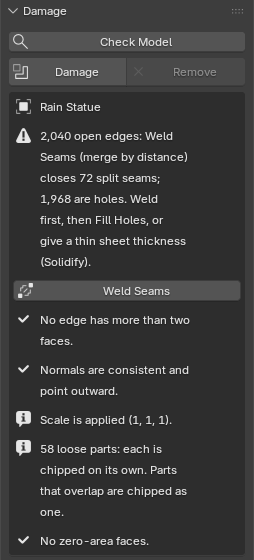
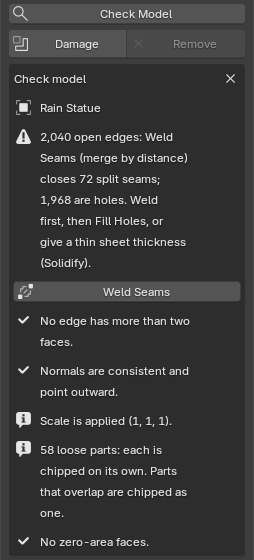
Spallwork page for 1.2.0 (customer gate): rendered facade hero and og image (Cycles, Final detail, Rain on the steps), the old window capture moved to 'In Blender, for real'; first screen names the OS tested; speed scoped to our 12 models with Chipped and Ruined, the bevelled castle wall, per-model 

diff --git a/spallwork/index.html b/spallwork/index.html
@@ -11,15 +11,15 @@
 <meta property="og:title" content="Spallwork for Blender: chipped edges that keep separate bricks separate">
 <meta property="og:description" content="Remesh and Displace fuse your bricks into one blob? Spallwork chips the edges of closed meshes, keeps every separate brick separate, sizes chips in metres, and lets you Revert even after Apply. $15, source included.">
 <meta property="og:url" content="https://ochrestack.com/spallwork/">
-<meta property="og:image" content="https://ochrestack.com/spallwork/img/og-spallwork-2x1.jpg">
+<meta property="og:image" content="https://ochrestack.com/spallwork/img/hero-facade.jpg">
 <meta property="og:image:width" content="1600">
 <meta property="og:image:height" content="800">
-<meta property="og:image:alt" content="A Blender 5.2 window: Blender Studio's Rain in a courtyard of chipped stone pieces (a column, an arch, brick walls, stairs, a rock) after Spallwork's Ruined look, with the Spallwork tab on the right">
+<meta property="og:image:alt" content="A rendered brick facade with a sandstone door surround and granite steps, every brick, stone and step chipped by Spallwork, and Blender Studio's Rain standing on the top step in a low evening sun">
 <meta name="twitter:card" content="summary_large_image">
 <meta name="twitter:title" content="Spallwork for Blender: chipped edges that keep separate bricks separate">
 <meta name="twitter:description" content="Remesh and Displace fuse your bricks into one blob? Spallwork chips the edges of closed meshes, keeps every separate brick separate, sizes chips in metres, and lets you Revert even after Apply. $15, source included.">
-<meta name="twitter:image" content="https://ochrestack.com/spallwork/img/og-spallwork-2x1.jpg">
-<meta name="twitter:image:alt" content="A Blender 5.2 window: Blender Studio's Rain in a courtyard of chipped stone pieces (a column, an arch, brick walls, stairs, a rock) after Spallwork's Ruined look, with the Spallwork tab on the right">
+<meta name="twitter:image" content="https://ochrestack.com/spallwork/img/hero-facade.jpg">
+<meta name="twitter:image:alt" content="A rendered brick facade with a sandstone door surround and granite steps, every brick, stone and step chipped by Spallwork, and Blender Studio's Rain standing on the top step in a low evening sun">
 <link rel="icon" href="../icon.svg" type="image/svg+xml">
 <style>
   :root { --ochre: #C8842B; --ochre-text: #8A5A1A; --ink: #2B2118; --paper: #FAF7F2; --muted: #5A4E43; }
@@ -54,7 +54,7 @@
   .narrow-only { display: none; }
   .scroll-x { overflow-x: auto; -webkit-overflow-scrolling: touch; }
   .scroll-x a, .scroll-x picture { display: block; }
-  .hero { display: block; width: 100%; max-width: 640px; height: auto; border: 1px solid #E6DED3; border-radius: 10px; margin: 4px 0 12px; }
+  .hero { display: block; width: 100%; height: auto; border: 1px solid #E6DED3; border-radius: 10px; margin: 4px 0 12px; }
   .fine { font-size: 15px; color: var(--muted); }
   details { margin: 8px 0 24px; font-size: 15px; color: var(--muted); }
   summary { cursor: pointer; }
@@ -81,19 +81,19 @@
 </header>
 <main>
   <h1>Spallwork for Blender</h1>
-  <a href="img/hero-window-ruined.jpg"><img class="hero" src="img/og-spallwork-2x1.jpg" alt="A Blender 5.2 window in Material Preview. Blender Studio's Rain stands in a small courtyard of stone pieces: a fluted column, a sandstone arch, two brick walls, a staircase, a rock, a short column, a crate and a barrel. Every stone piece has chipped edges and pitted faces from Spallwork's Ruined look. On the right, the Spallwork tab: Check Model, Damage and Remove, the Worn, Chipped and Ruined buttons, Amount 0.85, Chip size 0.1 m, Depth 0.90, Edge angle 25°, Edges and surface, Preview detail 1, Final detail 2, Last update 0.39 s (Preview), then the Mask &amp; Material and Apply sections" width="1600" height="800"></a>
+  <a href="img/hero-facade-full.jpg"><img class="hero" src="img/hero-facade.jpg" alt="A Cycles render in late sun: a long red-brick facade of separate bricks with a sandstone door surround and a dark green door, on a granite plinth with three granite steps. Blender Studio's Rain stands on the top step in the doorway. The steps and the plinth have large broken chips along every edge, the door surround has chipped arrises, and the bricks show small pale breaks at their corners and edges" width="1600" height="800"></a>
   <p class="sub">Remesh and Displace fuse your bricks into one blob? Spallwork chips the edges of closed meshes and keeps every separate brick or block separate, sizes its chips in metres whatever the object's scale, and lets you Revert even after Apply and reopening the file.</p>
 
   <div class="buy">
-    <p class="price"><strong>$15, one-time, source included</strong> (GPL-3.0-or-later). Updates at no charge. Blender 4.5 LTS to 5.2 LTS, tested on 4.5.15, 5.0.1, 5.1.2 and 5.2.3 (official Linux builds).</p>
+    <p class="price"><strong>$15, one-time, source included</strong> (GPL-3.0-or-later). Updates at no charge. Blender 4.5 LTS to 5.2 LTS, tested on 4.5.15, 5.0.1, 5.1.2 and 5.2.3 (official Linux builds; Windows and macOS not yet tested).</p>
     <p><a class="button" id="buy" href="https://buy.polar.sh/polar_cl_XOYxPe9aOGOmQEuXD3MPneeNoR92XubuzuZf60B2xgq">Buy for $15</a></p>
     <p class="fine">Polar checkout · download by email · <a href="../terms.html">14-day refund if it doesn't work as described</a> · no subscription, no license key, no account · <a href="#details">details</a></p>
   </div>
 
-  <p class="fine">Above: Rain, Blender Studio's free character, in a courtyard of stone pieces after one press of Damage on all of them and a click on Ruined. A real Blender 5.2.3 window with Spallwork 1.1.0.</p>
+  <p class="fine">Above: a render, not a mock-up. Our brick facade (four objects of separate bricks, Ruined with Chip size 0.045 m and a pale "Fresh Brick" Break material), sandstone door surround (Chipped) and granite plinth and steps (Ruined), damaged with Spallwork 1.2.0's own buttons and rendered with Cycles in Blender 5.2.3, so at Final detail. A brick's chips are at most half its thickness, so they read as small breaks at this distance; the steps show how far Ruined goes on bigger stones. Rain, Blender Studio's free character, stands on the top step.</p>
   <details>
     <summary>How these images were made</summary>
-    <p>Every image and GIF on this page, apart from the demo video and its GIF, is a capture of a real Blender 5.2.3 LTS window on Linux, 1920x1080, with the Spallwork 1.1.0 zip installed through Blender's extension installer. The character is Rain v3.3 as downloaded from studio.blender.org (CC BY 4.0, credit further down), in her own rig with her arms switched to FK and lowered. The stone pieces are the models we test Spallwork on (our own, built in code) with procedural stone, brick and wood materials of ours; two brick walls are three copies each of the test wall, and the short column is the test column at an unapplied scale of 0.42 in height. Every click, key, box selection and typed letter in the GIFs is a real input event sent to the window, played at the speed it happened, and every number in the panel and the status bar is Spallwork's or Blender's own. Only the view (the camera position) was set by script. The GIFs use Solid shading, which Blender draws instantly; the stills use Material Preview, which on this machine (no graphics card) needed about a minute to settle, so they were taken after it had. Nothing was drawn on the images.</p>
+    <p>Three images are Cycles renders made with Spallwork 1.2.0: the facade at the top and the two worked examples (tabletop pieces and a game wall). Each scene is built in code by us, damaged by pressing Spallwork's own operators, and rendered as F12 would, at Final detail; nothing was drawn on them. Every other image and GIF on this page, apart from the demo video and its GIF, is a capture of a real Blender 5.2.3 LTS window on Linux, 1920x1080, with the Spallwork zip installed through Blender's extension installer: the statue GIF and the Check model panel with 1.2.0, the rest with 1.1.0. In those, 1.2.0 would differ only in small panel details: before the first Damage its Seed field shows the object's own seed instead of 0. The character is Rain v3.3 as downloaded from studio.blender.org (CC BY 4.0, credit further down), in her own rig with her arms switched to FK and lowered. The stone pieces are the models we test Spallwork on (our own, built in code) with procedural stone, brick and wood materials of ours; two brick walls are three copies each of the test wall, and the short column is the test column at an unapplied scale of 0.42 in height. Every click, key, box selection and typed letter in the GIFs is a real input event sent to the window, played at the speed it happened, and every number in the panel and the status bar is Spallwork's or Blender's own. Only the view (the camera position) was set by script. The GIFs use Solid shading, which Blender draws instantly; the stills use Material Preview, which on this machine (no graphics card) needed about a minute to settle, so they were taken after it had. Nothing was drawn on the images.</p>
     <p>The demo video and its GIF were captured differently, in the same Blender and scenes at 2560x1174: each frame is one real input step (a pointer step, a click, a key, a wheel notch, a typed letter) followed by one redraw of the window, so waits such as Damage on 14 objects take no screen time. The pointer arrow and the ochre click rings are drawn by the edit at the position logged for each frame, and the captions and cards are added by the edit; the push-ins are crops of the captured frames. The rendered courtyard at the end is EEVEE, 4 samples, after Damage, Ruined and Apply (Final detail) on the 14 pieces.</p>
   </details>
 
@@ -126,7 +126,7 @@
   </figure>
 
   <div class="box">
-    <strong>Who does not need it.</strong> Blender already gives a patient artist the parts for free. Sculpt Mode, or the Remesh and Displace modifiers with a noise texture, can make chipped edges by hand. A displacement or bevel shader gives worn edges at render time without new geometry. The free Cell Fracture extension breaks objects into shards. A buyer who is happy to sculpt each chip, or who only needs wear in the render and never in the mesh, does not need Spallwork. Version 1 draws no cracks, cuts nothing apart, and adds no rebar, debris or grime shaders: for building destruction, look at a crack or destruction tool. And it needs a closed mesh: a plane or a single wall face with no thickness is refused with the reason, never damaged silently.
+    <strong>Who does not need it.</strong> Blender already gives a patient artist the parts for free. Sculpt Mode, or the Remesh and Displace modifiers with a noise texture, can make chipped edges by hand. A displacement or bevel shader gives worn edges at render time without new geometry. The free Cell Fracture extension breaks objects into shards. A buyer who is happy to sculpt each chip, or who only needs wear in the render and never in the mesh, does not need Spallwork. Version 1 draws no cracks, cuts nothing apart, and adds no rebar, debris or grime shaders: for building destruction, look at a crack or destruction tool. And it needs a closed solid: a plane or a single wall face with no thickness is refused with the reason, never damaged silently (a Solidify modifier on it is enough, applied or not).
   </div>
 
   <h2>What it does</h2>
@@ -134,10 +134,10 @@
     <li><strong>Damage many objects at once, and keep editing.</strong> Select one or many meshes in Object Mode and press Damage. Each gets a "Spallwork" modifier, and its own mesh is not touched until you press Apply. Three starting looks, Worn, Chipped and Ruined, only set the sliders: Amount, Chip size, Depth, Edge angle, Seed, and Mode (edges only, or edges and surface). Copy to Selected gives other objects the same settings, each with its own seed unless you tick Same seed. Remove takes the damage off and leaves the object as it was.</li>
     <li><strong>Chips in metres.</strong> Chip size is a physical size: an object at unapplied scale 3, a parent's scale, or a scale of (1, 1, 3) gets chips about the same size as an unscaled copy (in our test, median chips of 0.066 to 0.073 m against 0.073 m, at Chip size 0.05 m), and a scene in centimetres gets the same sizes.</li>
     <li><strong>Built for walls of separate pieces.</strong> Each loose part is chipped on its own. A part that would be left with less than a fifth of its volume is put back whole.</li>
-    <li><strong>Check model, for imported and messy meshes.</strong> It reports open edges, edges shared by three or more faces, faces pointing inward, unapplied or negative scale, the number of loose parts and zero-area faces, each in one line, with a fix button where Blender can fix it safely: Weld Seams for meshes split at UV seams (glTF imports arrive like that), Fill Holes, Fix Normals, Remove Zero-Area Faces.</li>
+    <li><strong>Check model, for imported and messy meshes.</strong> It reports open edges, edges shared by three or more faces, faces pointing inward, unapplied or negative scale, the number of loose parts and zero-area faces, each in one line, with a fix button where Blender can fix it safely: Weld Seams for meshes split at UV seams (glTF imports arrive like that), Fill Holes, Fix Normals, Remove Zero-Area Faces. A sheet with a Solidify modifier, or half a model with a Mirror, is judged as the modifiers leave it, so you do not have to apply them first.</li>
     <li><strong>A light viewport, full detail at render and Apply.</strong> Preview detail is what the viewport shows; Final detail is used for F12 renders and for Apply, with no switching by hand. Last update shows what the active object's damage took to compute.</li>
     <li><strong>Masks and a Break material.</strong> Protect Selected Faces in Edit Mode, or Paint Mask in Weight Paint, and the damage leaves those faces alone. Pick a Break material and the faces the damage creates get it; every other face keeps its material and UVs. Broken faces get box-projected UVs, so a tiling texture shows on them.</li>
-    <li><strong>Apply for export, Revert any time.</strong> Apply turns the damage into ordinary mesh data with outward normals. Target faces reduces the applied result for game assets and keeps every part closed. Revert to Original brings back the exact mesh from before Apply, even after you save, close and reopen the file, until you choose Forget Original.</li>
+    <li><strong>Apply for export, Revert any time.</strong> Apply turns the damage into ordinary mesh data with outward normals. Target faces reduces the applied result for game assets and keeps every part closed; start at twice the model's own face count (see below). Revert to Original brings back the exact mesh from before Apply, even after you save, close and reopen the file, until you choose Forget Original.</li>
     <li><strong>One tab.</strong> Everything is in the Spallwork tab of the 3D Viewport sidebar, in three sections you can fold: Damage, Mask &amp; Material, Apply. No menus, pop-ups or shortcuts are added, and every setting is saved in your .blend file.</li>
   </ul>
 
@@ -161,8 +161,8 @@
   <h2>A real character as a stone statue</h2>
   <p>Rain's own meshes, posed, converted to one mesh with Convert to Mesh and Join, as you would to make a statue: 30,660 faces, 58 loose parts, and open edges everywhere a character mesh is open. Damage refuses that mesh and says why; Check model shows what to do.</p>
   <figure>
-    <a href="img/rain-statue-check-weld-fill-damage.gif"><img src="img/rain-statue-check-weld-fill-damage.gif" alt="A grey statue of Rain on a plinth in front of a sandstone arch, selected. Check Model is clicked: the panel lists '2,040 open edges: Weld Seams (merge by distance) closes 72 split seams; 1,968 are holes. Weld first, then Fill Holes', with a Weld Seams button, and '58 loose parts: each is chipped on its own. Parts that overlap are chipped as one.' Weld Seams is clicked: 1,968 open edges remain, and a Fill Holes button appears. Fill Holes is clicked: 'No open edges: the mesh is closed', 55 loose parts. Damage is clicked and chips appear on her arms, legs and face; Worn is clicked and the chips get smaller" width="1200" height="700" loading="lazy"></a>
-    <figcaption>Check Model, Weld Seams ("merged 40 vertices; open edges 2,040 -&gt; 1,968"), Fill Holes ("added 66 faces; open edges 1,968 -&gt; 0"), Damage, Worn. Her clothes overlap her body, so they are chipped as one with it.</figcaption>
+    <a href="img/rain-statue-check-weld-fill-damage.gif"><img src="img/rain-statue-check-weld-fill-damage.gif" alt="A grey statue of Rain on a plinth in front of a sandstone arch, selected. Check Model is clicked: the panel lists '2,040 open edges: Weld Seams (merge by distance) closes 72 split seams; 1,968 are holes. Weld first, then Fill Holes', with a Weld Seams button, and '58 loose parts: each is chipped on its own. Parts that overlap are chipped as one.' Weld Seams is clicked: 1,968 open edges remain, and a Fill Holes button appears. Fill Holes is clicked: 'No open edges: the mesh is closed', 55 loose parts. Damage is clicked: the findings close and chips appear on her arms, legs and face; Worn is clicked and the chips get smaller" width="1200" height="700" loading="lazy"></a>
+    <figcaption>Check Model, Weld Seams ("merged 40 vertices; open edges 2,040 -&gt; 1,968"), Fill Holes ("added 66 faces; open edges 1,968 -&gt; 0"), Damage, Worn, with Spallwork 1.2.0. Her clothes overlap her body, so they are chipped as one with it.</figcaption>
   </figure>
   <figure>
     <a href="img/rain-statue-worn.jpg"><img src="img/rain-statue-worn.jpg" alt="Material Preview of the Rain statue at the Worn look on a stone plinth in front of the arch and brick walls: small chips along her forearms, shins, scarf and the edge of her hair, and a few on her face" width="1100" height="900" loading="lazy"></a>
@@ -182,7 +182,23 @@
   </div>
   <p class="fine">Blender's status bar after Apply: "Applied 1 object. Stone Arch: applied at Final detail, 38,308 faces. Revert to original brings the old mesh back." Revert to Original then reported "Reverted 1 object to the original mesh: Stone Arch." and the arch was back to 1,134 faces. In our tests Revert gives back the exact mesh after Apply and after save, close and reopen; Blender's own modifier Apply cannot be undone once the file is reopened.</p>
 
+  <h2 id="numbers">Game assets and miniatures: the numbers to type</h2>
+  <figure>
+    <a href="img/game-target-faces.jpg"><img src="img/game-target-faces.jpg" alt="Three copies of the same grey castle wall of 46 separate blocks, rendered with their wireframe. Left, applied with Target faces 3,000: long thin triangles across clean blocks and only a few small chips. Middle, Target faces 4,968: more chips at block corners and edges. Right, Target faces 9,936: chips along most block edges, with denser triangles around them" width="1944" height="480" loading="lazy"></a>
+    <figcaption>One 46-block castle wall (2,484 faces of its own), Ruined, applied with Target faces 3,000, 4,968 and 9,936: 2,970, 5,194 and 9,712 faces, with 87, 242 and 593 low-poly chips. Every block stays a closed part.</figcaption>
+  </figure>
+  <p><strong>Target faces for game assets.</strong> The chips are paid for with the faces above the model's own count, about 14 faces per low-poly chip. A target at or just above the model's own face count reduces the model itself and leaves very few chips, so the result looks almost clean. <strong>Start at twice the model's face count</strong>; when the target is lower, the Apply section says how many faces the model has and what to type, and the Apply report says few chips fit.</p>
+  <figure>
+    <a href="img/tabletop-ruined-4mm.jpg"><img src="img/tabletop-ruined-4mm.jpg" alt="A grey 5 cm tower with a ring of crenellations and a thin 60 by 40 millimetre wall piece standing on a green cutting mat with a 10 millimetre grid. Both have crisp small chips along every edge and a few shallow pits on their faces" width="1200" height="800" loading="lazy"></a>
+    <figcaption>Tabletop scale, on a 10 mm grid: a 4.9 cm tower of 9 parts and a 60 × 40 mm wall piece that is a plane with a 4 mm Solidify modifier, not applied. Both Ruined with Chip size 0.004 m, then applied: closed, with no non-manifold edges.</figcaption>
+  </figure>
+  <p><strong>Chip size for miniatures.</strong> The starting looks are sized for buildings and props (3 to 10 cm chips), so a 5 cm piece gets only a handful. Pick a look, then type the chip size: <strong>0.004 m</strong> (4 mm) gave the tower above crisp chips. After Apply both pieces were closed with no non-manifold edges and kept 97.6% to 99.3% of their volume, on Blender 4.5.15 and 5.2.3. On the tower one 2.7 mm fragment came loose where two chips met (9 parts before, 10 after), so for a print, compare Check model's loose-part count before and after Apply. We have not tested the results in a slicer.</p>
+
   <h2>In Blender, for real</h2>
+  <figure>
+    <a href="img/hero-window-ruined.jpg"><img src="img/og-spallwork-2x1.jpg" alt="A Blender 5.2 window in Material Preview. Blender Studio's Rain stands in a small courtyard of stone pieces: a fluted column, a sandstone arch, two brick walls, a staircase, a rock, a short column, a crate and a barrel. Every stone piece has chipped edges and pitted faces from Spallwork's Ruined look. On the right, the Spallwork tab: Check Model, Damage and Remove, the Worn, Chipped and Ruined buttons, Amount 0.85, Chip size 0.1 m, Depth 0.90, Edge angle 25°, Edges and surface, Preview detail 1, Final detail 2, Last update 0.39 s (Preview), then the Mask &amp; Material and Apply sections" width="1600" height="800" loading="lazy"></a>
+    <figcaption>A real Blender 5.2.3 window with Spallwork 1.1.0: Rain in a courtyard of 14 stone pieces after one press of Damage on all of them and a click on Ruined, in Material Preview.</figcaption>
+  </figure>
   <div class="pair" style="gap:20px">
     <figure style="flex-basis:254px">
       <a href="img/mask-break-material.jpg"><img class="ui" src="img/panel.png" alt="The Spallwork tab at real size: the Damage section with Check Model, Damage and Remove, Starting look Worn, Chipped, Ruined, Amount 0.60, Chip size 0.05 m, Depth 0.60, Edge angle 30°, Seed, Edges only and Edges and surface, Copy to Selected and Same seed, Preview detail 1, Final detail 2, 'Viewport shows Preview; F12 and Apply use Final.', Last update 0.31 s (Preview); Mask &amp; Material with Protect Selected Faces, Paint Mask, Clear Mask, 'Mask: vertex group Spallwork Mask. Weight 1 keeps faces free of damage.', Break material Fresh Break, 'Broken faces get UVs in UVMap.'; Apply with Target faces 0, Apply, Revert to Original and Forget Original" width="254" height="850" loading="lazy"></a>
@@ -196,7 +212,7 @@
   <p style="font-size:14px;color:var(--muted)">Character: Rain Rig (CC) Blender Foundation | studio.blender.org, used under <a href="https://creativecommons.org/licenses/by/4.0/">CC BY 4.0</a>. We switched her arms to FK and lowered them, placed her in a scene of our own, and for the statue converted her posed meshes to one mesh. Rain is not included with Spallwork, and Blender Studio does not endorse it.</p>
 
   <h2 id="tested">How we tested</h2>
-  <p>Every release runs the full test suite headless on the official Linux builds of Blender 4.5.15, 5.0.1, 5.1.2 and 5.2.3. Each model is damaged at each starting look, at Preview and at Final detail, and every run must lose no loose part, leave no face pointing inward, and keep 60 to 100% of the volume. For 1.1.0, 162 of the 163 tests pass on each version; the one that fails checks chips on a scaled collection instance, a known limit listed below. The window itself was driven by real clicks through 39 steps on 4.5.15 and on 5.2.3, with 39 of 39 passing.</p>
+  <p>Every release runs the full test suite headless on the official Linux builds of Blender 4.5.15, 5.0.1, 5.1.2 and 5.2.3. Each model is damaged at each starting look, at Preview and at Final detail, and every run must lose no loose part, leave no face pointing inward, and keep 60 to 100% of the volume. For 1.2.0, 171 of the 172 tests pass on each version; the one that fails checks chips on a scaled collection instance, a known limit listed below. The window itself was driven by real clicks through 42 steps on 4.5.15 and on 5.2.3, with 42 of 42 passing, including a sheet with an unapplied Solidify and the Target faces warning.</p>
   <p><strong>12 purpose-built models</strong> (ours, clean and closed, with small gaps between separate parts). All pass on all four versions.</p>
   <div class="scroll-x">
   <table>
@@ -216,26 +232,34 @@
   </table>
   </div>
   <p><strong>Third-party imports.</strong> Four CC0 models from the Khronos glTF sample collection (a water bottle, a lantern in three objects, an avocado and a chair's fabric), imported with Blender's own glTF importer and left as they arrived: split at UV seams, with holes. Each went through Check model's Weld Seams and Fill Holes, then Damage at every look. All pass on all four versions. Smooth, rounded models get few chips: Spallwork chips edges sharper than the Edge angle, and a pebble-smooth avocado has few.</p>
-  <p id="speed"><strong>Measured speed.</strong> Blender 5.2.3 LTS on Linux, default settings, on a cloud machine with an Intel Xeon at 2.10 GHz (4 threads) and 15.7 GB RAM, no GPU (geometry runs on the CPU). Each figure is the median of three runs; your times depend on your computer.</p>
+  <p id="speed"><strong>Measured speed, on our 12 test models.</strong> Blender 5.2.3 LTS on Linux, default detail, on a cloud machine with an Intel Xeon at 2.10 GHz (4 threads) and 15.7 GB RAM, no GPU (geometry runs on the CPU); each figure is the median of three runs of one slider change (Preview) or one full evaluation (Final). Your times depend on your computer and your model.</p>
+  <ul>
+    <li><strong>Chipped look (the default):</strong> median 0.17 s per Preview update. On every tested Blender, each of the 11 models up to 47,000 faces stayed under 0.4 s, and the 110,221-face carving took 1.53 to 1.76 s.</li>
+    <li><strong>Ruined look:</strong> median 0.22 s; the 11 models up to 47,000 faces stayed at or under 0.40 s on 5.2.3 (0.42 s on 4.5.15), and the carving took 1.70 s (2.05 s on 4.5.15).</li>
+    <li><strong>Heavier models cost more.</strong> Our test models have plain or few bevels. A 46-block castle wall whose blocks have two-segment bevels (2,484 faces) took 0.40 s per change at Chipped and 0.76 s at Ruined on the same machine and Blender. If the viewport feels slow, lower Preview detail or Amount.</li>
+  </ul>
+  <details>
+    <summary>Per-model times (Blender 5.2.3)</summary>
   <div class="scroll-x">
   <table>
-    <tr><th>Model</th><th>Faces</th><th>Preview: one slider change</th><th>Final (F12 / Apply)</th></tr>
-    <tr><td>Brick wall (119 bricks)</td><td>3,094</td><td>0.26 s</td><td>0.77 s</td></tr>
-    <tr><td>Fluted column</td><td>6,252</td><td>0.27 s</td><td>0.65 s</td></tr>
-    <tr><td>Stone stairs</td><td>250</td><td>0.15 s</td><td>0.44 s</td></tr>
-    <tr><td>Statue bust</td><td>46,939</td><td>0.33 s</td><td>0.39 s</td></tr>
-    <tr><td>Stone arch (21 stones)</td><td>1,134</td><td>0.36 s</td><td>1.00 s</td></tr>
-    <tr><td>Barrel (24 parts)</td><td>4,276</td><td>0.13 s</td><td>0.32 s</td></tr>
-    <tr><td>Kitbash crate (52 parts)</td><td>2,304</td><td>0.18 s</td><td>0.48 s</td></tr>
-    <tr><td>Converted text</td><td>2,140</td><td>0.06 s</td><td>0.12 s</td></tr>
-    <tr><td>Rock</td><td>12,243</td><td>0.14 s</td><td>0.30 s</td></tr>
-    <tr><td>Window frame</td><td>238</td><td>0.12 s</td><td>0.31 s</td></tr>
-    <tr><td>Pillar with bevels</td><td>294</td><td>0.14 s</td><td>0.40 s</td></tr>
-    <tr><td>Carved relief panel</td><td>110,221</td><td>1.69 s</td><td>2.57 s</td></tr>
+    <tr><th>Model</th><th>Faces</th><th>Chipped: Preview</th><th>Chipped: Final (F12 / Apply)</th><th>Ruined: Preview</th><th>Ruined: Final</th></tr>
+    <tr><td>Brick wall (119 bricks)</td><td>3,094</td><td>0.26 s</td><td>0.77 s</td><td>0.27 s</td><td>0.76 s</td></tr>
+    <tr><td>Fluted column</td><td>6,252</td><td>0.27 s</td><td>0.65 s</td><td>0.34 s</td><td>0.83 s</td></tr>
+    <tr><td>Stone stairs</td><td>250</td><td>0.15 s</td><td>0.44 s</td><td>0.21 s</td><td>0.59 s</td></tr>
+    <tr><td>Statue bust</td><td>46,939</td><td>0.33 s</td><td>0.39 s</td><td>0.40 s</td><td>0.43 s</td></tr>
+    <tr><td>Stone arch (21 stones)</td><td>1,134</td><td>0.36 s</td><td>1.00 s</td><td>0.25 s</td><td>0.73 s</td></tr>
+    <tr><td>Barrel (24 parts)</td><td>4,276</td><td>0.13 s</td><td>0.32 s</td><td>0.12 s</td><td>0.25 s</td></tr>
+    <tr><td>Kitbash crate (52 parts)</td><td>2,304</td><td>0.18 s</td><td>0.48 s</td><td>0.12 s</td><td>0.30 s</td></tr>
+    <tr><td>Converted text</td><td>2,140</td><td>0.06 s</td><td>0.12 s</td><td>0.06 s</td><td>0.12 s</td></tr>
+    <tr><td>Rock</td><td>12,243</td><td>0.14 s</td><td>0.30 s</td><td>0.22 s</td><td>0.48 s</td></tr>
+    <tr><td>Window frame</td><td>238</td><td>0.12 s</td><td>0.31 s</td><td>0.11 s</td><td>0.27 s</td></tr>
+    <tr><td>Pillar with bevels</td><td>294</td><td>0.14 s</td><td>0.40 s</td><td>0.12 s</td><td>0.28 s</td></tr>
+    <tr><td>Carved relief panel</td><td>110,221</td><td>1.69 s</td><td>2.57 s</td><td>1.70 s</td><td>2.26 s</td></tr>
   </table>
   </div>
-  <p class="fine">On every tested Blender, every model up to 47,000 faces stayed under 0.4 s per Preview update; the 110,221-face panel took 1.53 to 1.76 s. The Last update times in the GIFs above come from another 4-thread cloud machine (Intel Xeon at 2.30 GHz) that was recording the screen at the same time; they are not part of this table.</p>
-  <p>Not yet tested: Windows and macOS builds. Tell us if anything behaves differently there.</p>
+  </details>
+  <p class="fine">The Last update times in the GIFs above come from another 4-thread cloud machine (Intel Xeon at 2.30 GHz) that was recording the screen at the same time; they are not part of these figures.</p>
+  <p>Not yet tested: Windows and macOS builds. Spallwork uses only Blender's own Python API and no operating-system calls, so we expect no difference, but we have not run it there. Tell us if anything behaves differently.</p>
 
   <h2 id="details">Details</h2>
   <ul>
@@ -250,22 +274,23 @@
   <p>The full manual (<code>README.md</code>) is inside the zip: open the zip to read it, but install the zip itself, as it is. The first steps are also online: <a href="quick-start.html">Spallwork quick start</a>.</p>
   <h3>Install</h3>
   <ol>
-    <li>After checkout, download <code>spallwork-1.1.0.zip</code> from the link in Polar's email. Do not unzip it.</li>
+    <li>After checkout, download <code>spallwork-1.2.0.zip</code> from the link in Polar's email. Do not unzip it.</li>
     <li>In Blender (4.5 LTS or newer), open <strong>Edit &gt; Preferences &gt; Get Extensions</strong>.</li>
     <li>Open the drop-down menu (<strong>&#8964;</strong>) at the top right, choose <strong>Install from Disk...</strong> and pick the zip.</li>
     <li>Press <strong>N</strong> in the 3D Viewport and open the <strong>Spallwork</strong> tab.</li>
   </ol>
-  <p>If Get Extensions asks about internet access, <strong>Continue Offline is fine</strong>: Spallwork needs none.</p>
+  <p>If Get Extensions asks about internet access, <strong>Continue Offline is fine</strong>: Spallwork needs none. Blender may then show its own yellow "Repository Alert" saying the extensions.blender.org data is unavailable. That is about Blender's online catalogue, not Spallwork; ignore it.</p>
 
   <h2 id="limits">Known limits</h2>
   <ul>
-    <li><strong>Closed meshes only.</strong> Damage refuses open meshes, meshes with internal faces and meshes with faces pointing inward, and says why. Check model fixes split seams and holes; a sheet needs thickness first (Solidify). Curves, text and Grease Pencil must be converted to a mesh first.</li>
+    <li><strong>Closed meshes only.</strong> Damage refuses open meshes, meshes with internal faces and meshes with faces pointing inward, and says why. Check model fixes split seams and holes; a sheet needs thickness first (a Solidify modifier is enough; you do not have to apply it). Curves, text and Grease Pencil must be converted to a mesh first.</li>
     <li><strong>Overlapping parts fuse.</strong> Loose parts of one object that overlap or pass through each other are chipped as one where they overlap.</li>
     <li><strong>Collection instances scale the chips.</strong> An instance at scale 3 shows chips three times the size you set. Damage the object at its final size, or make the instances real. Check model warns when this applies.</li>
     <li><strong>Fill Holes caps every hole,</strong> including one that should stay open, such as a window. Look before you press Damage.</li>
     <li><strong>Other UV maps get a box projection on the broken faces.</strong> Repack a lightmap after Apply if your engine needs unique lightmap UVs.</li>
     <li><strong>Large models update more slowly</strong> (see <a href="#speed">Measured speed</a>). Very heavy settings make updates slow, and Apply cannot be cancelled once it starts.</li>
     <li><strong>Masks protect whole faces,</strong> with no soft falloff.</li>
+    <li><strong>Chips can knock a small fragment loose</strong> where two chips meet at a corner (one 2.7 mm piece on our 5 cm tower). Compare Check model's loose-part count before and after Apply if that matters, as for a print.</li>
     <li><strong>Apply bakes the modifiers above Spallwork.</strong> Revert restores them. Bound modifiers (Surface Deform, Mesh Deform) need binding again.</li>
     <li><strong>Don't press Shift+N on a heavily chipped small part.</strong> Normals already come out outward, and Blender's Recalculate Outside can guess wrong there and turn it inside out.</li>
     <li>No cracks, fracture, rebar, debris, grime shaders or wood splinters in version 1. English only. Tested on Linux builds only so far.</li>

diff --git a/spallwork/quick-start.html b/spallwork/quick-start.html
@@ -37,8 +37,8 @@
 
   <h2 id="install">Install (Blender 4.5 LTS or newer; tested on 4.5.15, 5.0.1, 5.1.2 and 5.2.3)</h2>
   <ol>
-    <li>After checkout, download <code>spallwork-1.1.0.zip</code> from the link in Polar's email. Install the zip itself; do not unzip it first. (To read the manual, open the zip; it is <code>README.md</code> inside.)</li>
-    <li>In Blender, open <strong>Edit &gt; Preferences &gt; Get Extensions</strong>. If Blender asks about internet access, <strong>Continue Offline is fine</strong>: Spallwork needs none.</li>
+    <li>After checkout, download <code>spallwork-1.2.0.zip</code> from the link in Polar's email. Install the zip itself; do not unzip it first. (To read the manual, open the zip; it is <code>README.md</code> inside.)</li>
+    <li>In Blender, open <strong>Edit &gt; Preferences &gt; Get Extensions</strong>. If Blender asks about internet access, <strong>Continue Offline is fine</strong>: Spallwork needs none. Blender may then show its own yellow "Repository Alert" about extensions.blender.org; it is about Blender's online catalogue, not Spallwork, and you can ignore it.</li>
     <li>Open the drop-down menu (<strong>&#8964;</strong>) at the top right, choose <strong>Install from Disk...</strong> and pick the zip. Spallwork is enabled straight away.</li>
     <li>Press <strong>N</strong> in the 3D Viewport and open the <strong>Spallwork</strong> tab.</li>
   </ol>
@@ -48,12 +48,13 @@
   <ol>
     <li><strong>Check model</strong> (recommended for a new or imported model). Select the meshes and click <strong>Check Model</strong>. Each finding is one line, with a fix button where Blender can fix it safely:
       <ul>
-        <li><strong>Open edges</strong>: the mesh is not closed, so Damage will not run on it. <strong>Weld Seams</strong> merges seams split at UV borders (glTF imports arrive like that); <strong>Fill Holes</strong> caps the holes that remain. A plane or a single wall face needs thickness first (Solidify).</li>
+        <li><strong>Open edges</strong>: the mesh is not closed, so Damage will not run on it. <strong>Weld Seams</strong> merges seams split at UV borders (glTF imports arrive like that); <strong>Fill Holes</strong> caps the holes that remain. A plane or a single wall face needs thickness first: a Solidify modifier is enough, you do not have to apply it. When the object's modifiers already make it a closed solid, Check model says so and Damage works on that.</li>
         <li><strong>Edges shared by three or more faces</strong> (internal faces): delete those faces first.</li>
         <li><strong>Faces pointing inward</strong>: <strong>Fix Normals</strong>.</li>
         <li><strong>Zero-area faces</strong>: <strong>Remove Zero-Area Faces</strong>.</li>
         <li>Scale and loose parts are for information: chip sizes stay in metres whatever the scale, and each loose part is chipped on its own.</li>
       </ul>
+      The findings stay until you check again. If you change the mesh or its modifiers, its findings are replaced by "Changed since Check Model"; Damage clears the findings of the objects it damaged, and the X beside "Check model" hides them all.
       <figure><img src="img/check-model-rain.png" alt="Check Model's findings at real size for a statue made from Blender Studio's Rain: 2,040 open edges, with the advice to Weld Seams first (72 split seams), then Fill Holes (1,968 holes), or give a thin sheet thickness, and a Weld Seams button; then no edge with more than two faces, normals consistent and outward, scale applied, 58 loose parts, no zero-area faces" width="254" height="560" loading="lazy"><figcaption>Check model on a character converted to one mesh: Weld Seams first, then Fill Holes (Blender 5.2.3, real size).</figcaption></figure>
     </li>
     <li><strong>Select one or many meshes in Object Mode and click Damage.</strong> Each gets a geometry-nodes modifier named "Spallwork"; its own mesh is not changed. An object Damage cannot work on is skipped, and the status bar says why.</li>
@@ -64,7 +65,7 @@
         <li><strong>Ruined</strong>: Amount 0.85, Chip size 0.10 m, Depth 0.90, Edge angle 25°, Edges and surface.</li>
       </ul>
     </li>
-    <li><strong>Adjust the sliders.</strong> <strong>Amount</strong>: how many of the possible chips are made. <strong>Chip size</strong>: the typical chip width, in your scene's units, the same physical size on every object. <strong>Depth</strong>: how deep each chip bites. <strong>Edge angle</strong>: how sharp an edge must be to chip. <strong>Seed</strong>: another random placement. <strong>Mode</strong>: edges only, or edges and surface (shallow pits on flat faces too).</li>
+    <li><strong>Adjust the sliders.</strong> <strong>Amount</strong>: how many of the possible chips are made. <strong>Chip size</strong>: the typical chip width, in your scene's units, the same physical size on every object. Before the first Damage the panel already shows the size Damage will use (5 cm in a centimetre scene). The looks are sized for buildings and props; for a 5 cm miniature, type something like <strong>0.004 m</strong>. <strong>Depth</strong>: how deep each chip bites. <strong>Edge angle</strong>: how sharp an edge must be to chip. <strong>Seed</strong>: another random placement. <strong>Mode</strong>: edges only, or edges and surface (shallow pits on flat faces too).</li>
     <li><strong>Copy to Selected</strong> gives the other selected objects the active object's settings, each with its own seed unless you tick <strong>Same seed</strong>. <strong>Remove</strong> takes the damage off and leaves the object as it was.</li>
   </ol>
   <p><strong>Preview detail</strong> is what the viewport shows while you work; <strong>Final detail</strong> is used for F12 renders and for Apply, with no switching by hand. <strong>Last update</strong> shows what the active object's damage took to compute. If a big model feels slow, lower Preview detail.</p>
@@ -80,9 +81,9 @@
 
   <h2 id="apply">Apply and Revert</h2>
   <ul>
-    <li><strong>Target faces</strong> (0 = off): for game assets, Apply reduces the result to about this many faces, and keeps every part closed.</li>
+    <li><strong>Target faces</strong> (0 = off): for game assets, Apply reduces the result to about this many faces, and keeps every part closed. Each low-poly chip costs about 14 faces on top of the model's own, so <strong>start at twice the model's face count</strong>; a lower target leaves few chips, and the Apply section warns you with the number to type.</li>
     <li><strong>Apply</strong> turns the damage into ordinary mesh data at Final detail, with outward normals. Modifiers above Spallwork are applied with it (the report names them); particle systems and collision stay.</li>
-    <li><strong>Revert to Original</strong> restores the exact mesh from before Apply, with the modifiers Apply baked, even after you save, close and reopen the file.</li>
+    <li><strong>Revert to Original</strong> restores the exact mesh from before Apply, with the modifiers Apply baked, even after you save, close and reopen the file. It gives back the clean mesh; press <strong>Damage</strong> to chip it again with the same settings.</li>
     <li><strong>Forget Original</strong> deletes the stored copy, so the file holds only the applied mesh. Another object that uses the same mesh keeps it.</li>
   </ul>
   <p>Every button says what it did in the status bar, for example "Applied 1 object. Stone Arch: applied at Final detail, 38,308 faces. Revert to original brings the old mesh back."</p>
@@ -92,6 +93,7 @@
     <li>Closed meshes only. Curves, text and Grease Pencil must be converted to a mesh first. Loose parts that overlap are chipped as one where they overlap.</li>
     <li>A collection instance at another scale shows chips at that scale; damage the object at its final size, or make the instances real. Check model warns.</li>
     <li>Fill Holes caps every hole, including one that should stay open, such as a window. Look before you press Damage.</li>
+    <li>Chips can knock a small fragment loose where two chips meet at a corner. For a 3D print, compare Check model's loose-part count before and after Apply.</li>
     <li>Don't press Shift+N on a heavily chipped small part after Apply: normals are already outward, and Blender's Recalculate Outside can guess wrong there.</li>
     <li>No cracks, fracture, rebar, debris or grime shaders in version 1. English only. Tested on Linux builds of Blender 4.5.15, 5.0.1, 5.1.2 and 5.2.3; Windows and macOS not yet tested. The full list is on the <a href="index.html#limits">product page</a>.</li>
   </ul>
